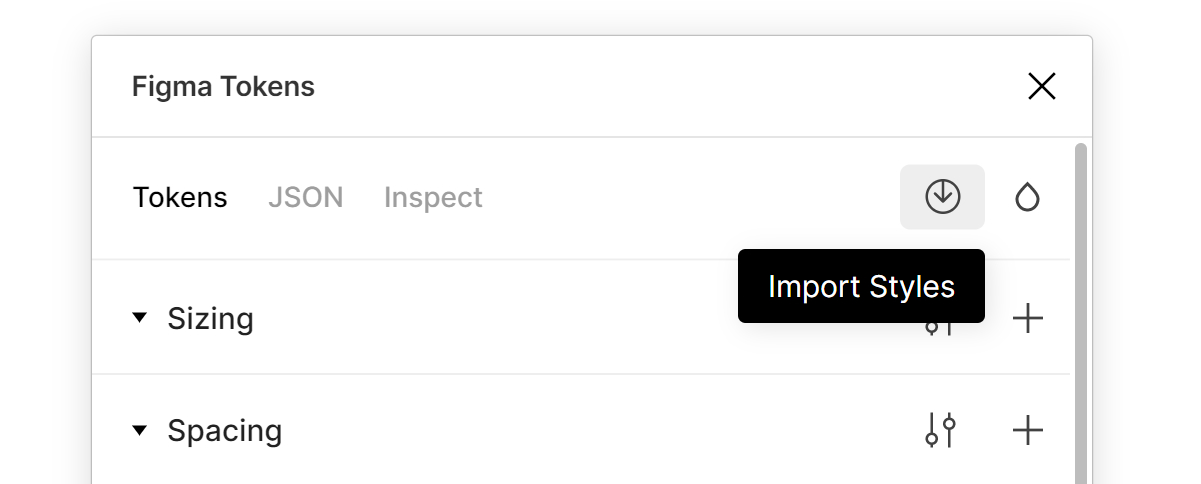
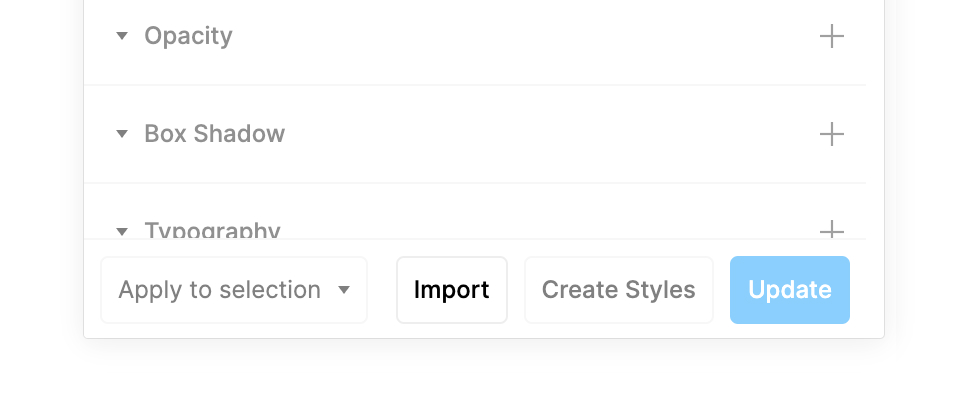
add version 53 changes

diff --git a/pages/changelog.en.md b/pages/changelog.en.md
@@ -1,0 +1,22 @@
+# Changelog
+
+## Version 53 (July 31st, 2021)
+This version has been a major rewrite of the state and token management, it will enable us to work on new releases faster and more efficient.
+
+### New features:
+- Completely new token storage system under the hood. This was by far the biggest part of the work but at the same time is the one that isn't visible at all.
+- Change the naming structure of your tokens to however you like! Token types are no longer reliant on their name (previously to create a spacing token you'd have to store them in the `spacing` object. Now, you can create a structure as you like, as long as you provide a `type` to each token. If you create tokens via the UI this means that you automatically add a type to each token. You can now create tokens such as `esds/baseTokens/spacing/blue` - which should give you more flexibility when it comes to exporting to code. Tokens that have a type that we don't recognize land in the "Other" category.
+- Added new option in Settings to ignore the first part of a token name for styles. This was neccessary due to changed behavior (now the "type" property indicates what type a token is instead of the first part of the name). When activated (by default) the first part of a token name will get removed for Figma's styles (so `colors/primary/500` will become a color style named `primary/500)`. Please be aware that this somewhat breaks Import. This setting is mainly there for transition from Version 52 to 53.
+- Added new Auto Layout padding tokens top, right, bottom, left.
+- Added a new apply selector at the bottom giving you new choices of where token updates should be applied. This has a big performance benefit if you only want to update tokens on your selection, and not the whole page.
+- Added a new "Update on Change" toggle to the ApplySelector. Currently everytime you edit a token the plugin traverses your layers to look for tokenized layers. This is bad for performance as it can take quite a long time. By toggling this behaviour off, you have to manually click "Update" to update your page / document / selection. This should make it easier for you to bulk edit tokens.
+- Added a new "Update remote" toggle to the ApplySelector. When this is toggled off, JSONbin won't update. Use this as a "Pause" feature for your sync.
+- Moved Import and Create Styles buttons to the bottom bar.
+- Remade how Import Tokens work: If an existing token with the same name (e.g. a colors/blue/500) is already present it will compare it's value and description to the one in Figma's Styles. If there's a difference, the plugin shows you a Diff
+- Added more information to the hover states of tokens and reworked Tooltips. They should now give you more information.
+- Added a new Documentation token: "Value". This will output the resolved value (after all aliases have been resolved). So a token that's a reference to another token will now output the value of that other token.
+- Updated to JSONBin.io API V3
+
+### Removed features:
+- Removed ability to color-code buttons in the UI as it only provided clutter to the UI.
+- Removed ability to create token groups manually. You can still create nested tokens, you just have to manually rename them with a "." or a "/" similar to how Figma does it.

diff --git a/pages/tokens/creating-tokens.pt-br.md b/pages/tokens/creating-tokens.pt-br.md
@@ -10,12 +10,9 @@ Para alterar o valor de um token existente, clique com o botão direito no token
 Você também pode alterar o nome do token, o que atualizará automaticamente todas as referências a este token.
 
 ### Grupos de token
-Como gerar muitos tokens pode se tornar bastante confuso, você pode agrupar seus tokens adicionando-os a um grupo de tokens. Existem duas maneiras de fazer isso:
+Como gerar muitos tokens pode se tornar bastante confuso, você pode agrupar seus tokens adicionando-os a um grupo de tokens.
 
 #### Crie um novo grupo de tokens
-Vá para a caixa a caixa `Edit Token` da propriedade para a qual deseja criar um grupo e clique no botão `Add a new group`.
-
-#### Crie um novo grupo adicionando um novo token
 Ao adicionar um novo token, você pode simplesmente escrever seus tokens em nomes separados por pontos. Nomear seu novo token `primary.500` irá adicionar este novo token ao grupo `primary` e com um nome de `500`.
 
 Você pode remover grupos de tokens clicando com o botão direito neles e selecionando `Delete`.

diff --git a/pages/getting-started.pt-br.md b/pages/getting-started.pt-br.md
@@ -4,7 +4,7 @@ Instale o Figma Tokens pressionando o botão `Install` [nesta página](https://w
 
 Isso irá instalar o plugin para você.
 
-Ao usar o plugin pela primeira vez você não terá token algum definido. Clique em `Configure Tokens` para iniciar.
+Ao usar o plugin pela primeira vez você não terá token algum definido. Clique em `Get started` para iniciar.
 
 Agora você vai poder continuar dentre três maneiras:
 
